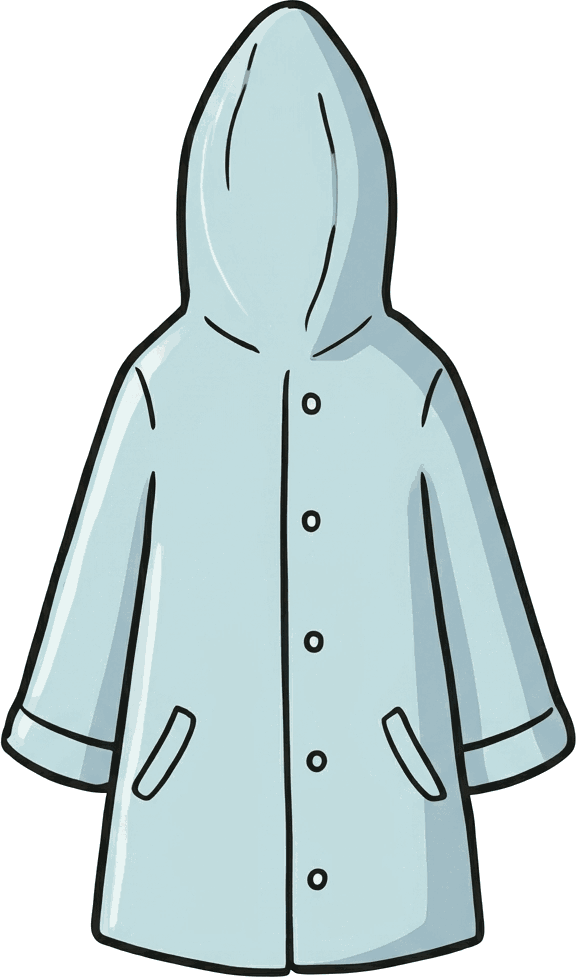
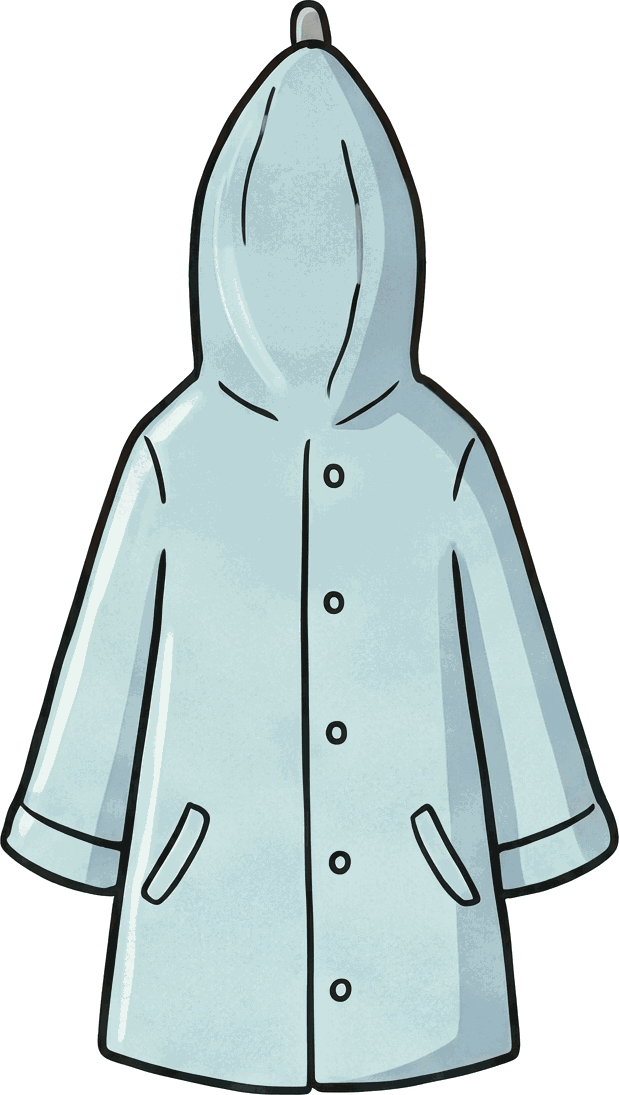
Classroom test: straight coat, grounded objects, quieter hamster, real timetable on the wall
The coat is redrawn hanging straight from one hook. Things that stand
on surfaces get a soft contact shadow. Nutmeg is smaller, sits on the
bedding and sniffs instead of jumping. The wall's timetable poster is
now the real grid, so it matches the close-up.

Claude-Session: https://claude.ai/code/session_01EfdGHqbt9UMLzVmVXYp5s9

diff --git a/next/landscape/index.html b/next/landscape/index.html
@@ -160,7 +160,7 @@ button{font:inherit;color:inherit;cursor:pointer}
 
 <script>
 'use strict';
-const BUILD = '2026-09-28i';
+const BUILD = '2026-09-28j';
 const $ = id => document.getElementById(id);
 
 /* ---------- sizing: the scene fills the screen in landscape, inventory strip under it ---------- */
@@ -197,7 +197,7 @@ const HOTS = {
     {id:'desk', l:41, t:61, w:18, h:33, label:"Mary's desk", sound:'tap'},
     {id:'envelope', l:50, t:65, w:8, h:8.5, label:"Envelope on Mary's desk", key:true, anim:'lift', layer:'envelope', sound:'paper'},
     {id:'bag', l:55.5, t:77, w:9, h:17, label:"Mary's schoolbag", anim:'wobble', layer:'backpack', sound:'tap'},
-    {id:'hamster', l:67, t:51.5, w:11, h:11, label:'Nutmeg the hamster', anim:'hop', layer:'hamster', sound:'squeak'},
+    {id:'hamster', l:67, t:51.5, w:11, h:11, label:'Nutmeg the hamster', anim:'sniff', layer:'hamster', sound:'squeak'},
     {id:'cabinet', l:66, t:62.5, w:13, h:27, label:'Filing cabinet', sound:'knock'}]
 };
 /* Cut-out layers drawn over each wall: the wall pictures have these things removed, so the cut-out is the only copy.
@@ -205,26 +205,26 @@ const HOTS = {
 const LAYERS = {
   c1:[
     {src:'../art/classroom/layer-doors.png', group:'doors', l:8.6, t:36, w:17, h:51},
-    {src:'../art/classroom/layer-mug.png', group:'mug', l:71.7, t:62.8, w:4.2, h:7.2},
-    {src:'../art/classroom/layer-apple.png', group:'apple', l:89.9, t:57.8, w:2.6, h:5.5}],
+    {src:'../art/classroom/layer-mug.png', group:'mug', l:71.7, t:62.8, w:4.2, h:7.2, shadow:.6},
+    {src:'../art/classroom/layer-apple.png', group:'apple', l:89.5, t:59.3, w:2.6, h:5.5, shadow:.5}],
   c2:[ /* each plant is split at the rim: the plant bends, the pot below it never moves and is drawn in front */
     {src:'../art/classroom/layer-plant1-top.png', group:'plant', l:34.4, t:54.0, w:5.6, h:3.82},
     {src:'../art/classroom/layer-plant2-top.png', group:'plant', l:42.4, t:49.5, w:5.5, h:8.26},
     {src:'../art/classroom/layer-plant3-top.png', group:'plant', l:51.0, t:36.1, w:6.8, h:21.7},
     {src:'../art/classroom/layer-plant4-top.png', group:'plant', l:59.3, t:31.5, w:7.7, h:26.31},
-    {src:'../art/classroom/layer-plant1-pot.png', l:34.4, t:57.71, w:5.6, h:8.79},
-    {src:'../art/classroom/layer-plant2-pot.png', l:42.4, t:57.65, w:5.5, h:8.85},
-    {src:'../art/classroom/layer-plant3-pot.png', l:51.0, t:57.69, w:6.8, h:8.81},
-    {src:'../art/classroom/layer-plant4-pot.png', l:59.3, t:57.70, w:7.7, h:8.80}],
+    {src:'../art/classroom/layer-plant1-pot.png', l:34.4, t:57.71, w:5.6, h:8.79, shadow:.5},
+    {src:'../art/classroom/layer-plant2-pot.png', l:42.4, t:57.65, w:5.5, h:8.85, shadow:.5},
+    {src:'../art/classroom/layer-plant3-pot.png', l:51.0, t:57.69, w:6.8, h:8.81, shadow:.5},
+    {src:'../art/classroom/layer-plant4-pot.png', l:59.3, t:57.70, w:7.7, h:8.80, shadow:.5}],
   c3:[
-    {src:'../art/classroom/layer-coat.png', group:'coat', l:61.2, t:49.5, w:10.6, h:32},
+    {src:'../art/classroom/layer-coat.png', group:'coat', l:60.4, t:50.2, w:9.8, h:30.8},
     {src:'../art/classroom/layer-lost.png', group:'lost', l:77.5, t:74.5, w:10, h:8.9, clipBottom:81},
     {src:'../art/classroom/layer-lid.png', group:'lid', l:27.6, t:67.3, w:10, h:10.3}],
   c4:[
     {src:'../art/classroom/layer-envelope.png', group:'envelope', l:50.5, t:66.5, w:6.5, h:5.5, hideWhen:() => S.got.includes('envelope')},
     /* the hamster lives inside the cage: it is clipped to the cage and the cage's glass is drawn faintly over it */
-    {src:'../art/classroom/layer-hamster.png', group:'hamster', l:67.8, t:54.2, w:5.2, h:7.3, glass:[67.3, 52.2, 10.2, 9.3]},
-    {src:'../art/classroom/layer-backpack.png', group:'backpack', l:56.5, t:78, w:7, h:15.3}]
+    {src:'../art/classroom/layer-hamster.png', group:'hamster', l:68.1, t:56.3, w:3.9, h:5.5, glass:[67.3, 52.2, 10.2, 9.3], shadow:.5},
+    {src:'../art/classroom/layer-backpack.png', group:'backpack', l:58.2, t:78.5, w:7, h:15.3, shadow:.8}]
 };
 /* every picture is loaded once, up front, so cut-outs never appear late */
 const IMG = {};
@@ -255,6 +255,9 @@ function drawLayer(c, t){
   if (L.clipBottom != null){ const yClip = toCanvas(c, L, 0, L.clipBottom)[1]; ctx.beginPath(); ctx.rect(0, 0, c.width, yClip); ctx.clip(); }
   let glassRect = null;
   if (L.glass){ const [gx, gy] = toCanvas(c, L, L.glass[0], L.glass[1]), [gx2, gy2] = toCanvas(c, L, L.glass[0]+L.glass[2], L.glass[1]+L.glass[3]); glassRect = [gx, gy, gx2-gx, gy2-gy]; ctx.beginPath(); ctx.rect(...glassRect); ctx.clip(); }
+  if (L.shadow){ /* a soft contact shadow under things that stand on a surface, so nothing floats */
+    ctx.save(); ctx.filter = `blur(${Math.max(2, W*0.03)}px)`; ctx.fillStyle = `rgba(30,25,40,${0.28*L.shadow})`;
+    ctx.beginPath(); ctx.ellipse(ox + W/2, oy + H - H*0.01, W*0.46, Math.max(3, W*0.07), 0, 0, Math.PI*2); ctx.fill(); ctx.restore(); }
   const finish = () => { /* the glass front of a cage, drawn faintly over whatever is inside */
     if (!glassRect) return; const wall = $('w-'+VIEWS[S.view]); if (!wall || !wall.naturalWidth) return;
     ctx.globalAlpha = 0.32; ctx.drawImage(wall, L.glass[0]/100*wall.naturalWidth, L.glass[1]/100*wall.naturalHeight, L.glass[2]/100*wall.naturalWidth, L.glass[3]/100*wall.naturalHeight, ...glassRect); ctx.globalAlpha = 1; };
@@ -299,6 +302,11 @@ function drawLayer(c, t){
       const T = 0.7; if (t > T + 0.3){ st.anim = null; ctx.drawImage(img, ox, oy); break; }
       const k = t < T ? Math.sin(Math.PI*t/T) : 0, settle = t >= T ? 0.05*damp(4, 0.15) : 0;
       ctx.translate(ox + W/2, oy + H); ctx.rotate(-0.35*k + settle); ctx.translate(0, -H*0.25*k); ctx.drawImage(img, -W/2, -H);
+      break; }
+    case 'sniff': { /* a hamster: a breath, a nose twitch and a tiny shuffle, all inside its cage */
+      if (t > 1.6){ st.anim = null; ctx.drawImage(img, ox, oy); break; }
+      const breath = 1 + 0.035*Math.sin(2*Math.PI*1.6*t)*Math.exp(-t/1.4), twitch = 0.04*Math.sin(2*Math.PI*6*t)*Math.exp(-t/0.35), shuffle = W*0.03*Math.sin(Math.PI*Math.min(t, 0.6)/0.6);
+      ctx.translate(ox + W/2 + shuffle, oy + H); ctx.rotate(twitch); ctx.scale(1/breath, breath); ctx.drawImage(img, -W/2, -H);
       break; }
     case 'wobble': { /* rocks on its base and settles */
       const ang = 0.14*damp(1.6, 0.6);
@@ -371,6 +379,7 @@ function render(){
   const hots = $('hots'); hots.innerHTML = '';
   layerState.clear();
   (LAYERS[v] || []).forEach(L => { if (L.hideWhen && L.hideWhen()) return; hots.appendChild(makeLayer(L)); });
+  if (v === 'c4') hots.appendChild(wallTimetable());
   /* bigger targets first, so a small thing on a big thing (the mug on the desk) stays tappable */
   [...HOTS[v]].sort((a, b) => b.w*b.h - a.w*a.h).forEach(h => {
     if (h.id === 'envelope' && S.got.includes('envelope')) return;
@@ -397,6 +406,15 @@ function render(){
   save();
 }
 function turn(d){ if (!$('closeup').hidden) return; S.view = (S.view + d + 4) % 4; say(''); sfx('turn'); render(); }
+
+/* The timetable poster on the wall is the real grid, drawn over the picture's poster in the same paper and ink,
+   so what you see on the wall is exactly what the close-up shows. */
+function wallTimetable(){
+  const wrap = document.createElement('div'); wrap.className = 'layer'; wrap.style.cssText = 'left:38.6%;top:25.3%;width:22.9%;height:29.4%';
+  let key = '';
+  wrap.innerHTML = `<svg viewBox="0 0 230 166" width="100%" height="100%" preserveAspectRatio="none" aria-hidden="true"><rect x="1" y="1" width="228" height="164" rx="2" fill="#fffdf6" stroke="#2b2836" stroke-width="2"/><rect x="1" y="1" width="228" height="20" fill="#2f7c83" stroke="#2b2836" stroke-width="2"/><text x="115" y="15.5" text-anchor="middle" font-size="12" font-weight="700" fill="#fffdf6" letter-spacing="1.5" font-family="Atkinson Hyperlegible,Verdana,sans-serif">5H TIMETABLE</text><g>${ttGrid(8, 27, 34, 28, 22, 16, 9.5)}</g></svg>`;
+  return wrap;
+}
 
 /* ---------- close-ups ---------- */
 function openCloseup(inner){

diff --git a/CLAUDE.md b/CLAUDE.md
@@ -35,7 +35,7 @@ The owner is a non-technical but AI-savvy builder working from a Chromebook. Exp
 - `icon-192.png`, `icon-512.png` — moth icon (also used as maskable).
 - `next/index.html` — the children's version being built, not yet what players get. It opens on the choose-a-child screen (with the fiction notice under "About this game"). All nine Part 1 stages are playable: Mary, Elliot and Zaina each have last day of school, packing day and the flight. The engine is in this file, with Mary's school and packing stages; the rest live in `next/stages/`. Each stage is one object (for example `STAGE_SCHOOL`, or the `stage` passed to `registerStage`) with its `rooms` (each room's views in turning order), `doors` (door → room and view you arrive at), `start`, `items`, `uses`, `fresh` state, `draw`, `act`, `hints`, `hinter`, optional `hintStyle:'point'` (for Zaina: the moth turns to the target, pulses it and says one short line) and `ending`; the engine handles turning, doors, the inventory, hints and endings. `STORYLINES` lists each child's three stages; saves are per child in localStorage (`mothhouse.next.v1`). Each view is a `<g class="view" id="v-…">` in the one SVG; hotspot `data-id`s must be unique across all stages (school ones start with `s_`, Elliot's `e_`, Zaina's `z_`, the flight's `fl_`). A hotspot with `data-stage="…"` only shows in that stage, which is how the shared flat and cabin carry different children's things. Close-ups are overlays inside `.stage`. Keep hotspots away from the bottom corners, where the turn arrows sit. It doesn't register the service worker. When the owner approves it, it replaces the live game.
 - `next/stages/mary-flight.js`, `elliot.js`, `zaina.js` — stage plugins: `registerStage(key, {css, views, closeups, boxes, stage, setup})`. The engine injects `views` into the SVG, `closeups` before `#endUI`, merges `boxes` into `BOXES`, then runs `setup()` after the bookcases are drawn (use it to add hotspots to shared views).
-- `next/landscape/index.html` — the landscape engine, first test room: Mary's classroom drawn as the generated pictures in `next/art/classroom/`. A 16:9 scene, small turn arrows halfway up each side, the inventory as ten slots under the scene, close-ups brought forward over the blurred room, a "turn your phone" screen in portrait. Tap targets are picture percentages in `HOTS`; `sound` names the tap effect and `anim` + `layer` name a movement and the cut-out group it moves. Moving things are cut-outs in `LAYERS` (per view: `layer-*.png`, placed in picture percentages, drawn on a canvas each; the wall pictures have them removed). The animator (`drawLayer`) bends, swings, lifts, hops, wobbles or pops a cut-out in slices for a moment. Sounds are made in the browser with Web Audio and start after the first tap; music plays the `TRACK` mp3 (Lyria), with the composed music-box waltz (`TUNE`) as fallback; both switch off from the menu. Every picture is preloaded before the room opens. Cut-out boxes must keep the picture's own proportions (h = w × pictureH/pictureW × 16/9) or the cut-out is squashed. Inventory icons are pictures in `next/art/classroom/item-*.png` (generated on white, background keyed out). The puzzle text is the same as the portrait draft. Only the classroom is built; the door says so. Saves in localStorage (`mothhouse.landscape.v1`).
+- `next/landscape/index.html` — the landscape engine, first test room: Mary's classroom drawn as the generated pictures in `next/art/classroom/`. A 16:9 scene, small turn arrows halfway up each side, the inventory as ten slots under the scene, close-ups brought forward over the blurred room, a "turn your phone" screen in portrait. Tap targets are picture percentages in `HOTS`; `sound` names the tap effect and `anim` + `layer` name a movement and the cut-out group it moves. Moving things are cut-outs in `LAYERS` (per view: `layer-*.png`, placed in picture percentages, drawn on a canvas each; the wall pictures have them removed). The animator (`drawLayer`) bends, swings, lifts, hops, wobbles or pops a cut-out in slices for a moment. Sounds are made in the browser with Web Audio and start after the first tap; music plays the `TRACK` mp3 (Lyria), with the composed music-box waltz (`TUNE`) as fallback; both switch off from the menu. A layer's `shadow` draws a soft contact shadow under it (anything standing on a surface gets one, so nothing floats); `glass` clips it inside a box and draws the wall's glass faintly over it (Nutmeg in his cage). The timetable on the wall is drawn by `wallTimetable()` from the real grid, so wall and close-up always agree. Every picture is preloaded before the room opens. Cut-out boxes must keep the picture's own proportions (h = w × pictureH/pictureW × 16/9) or the cut-out is squashed. Inventory icons are pictures in `next/art/classroom/item-*.png` (generated on white, background keyed out). The puzzle text is the same as the portrait draft. Only the classroom is built; the door says so. Saves in localStorage (`mothhouse.landscape.v1`).
 - `next/art/music/classroom.mp3` — background music made with Google's Lyria through the Gemini key (see the README there). The engine's `TRACK` points at it; the built-in composed tune is the fallback.
 - `next/art/classroom/` — the four walls of Mary's classroom as generated pictures (Gemini image model, `gemini-3-pro-image`, 28 Sept 2026): the `landscape-` files follow the owner's brief (16:9, clean and sparse); the earlier portrait ones are kept for comparison. Prompts in `PROMPTS.md`. The key is in the environment as `GEMINI_API_KEY`; the script that made them is described there. Not wired into the game.
 - `STORY.md` — the story plan: characters, places, every scene with its puzzle map, rules for every chapter, open decisions.
